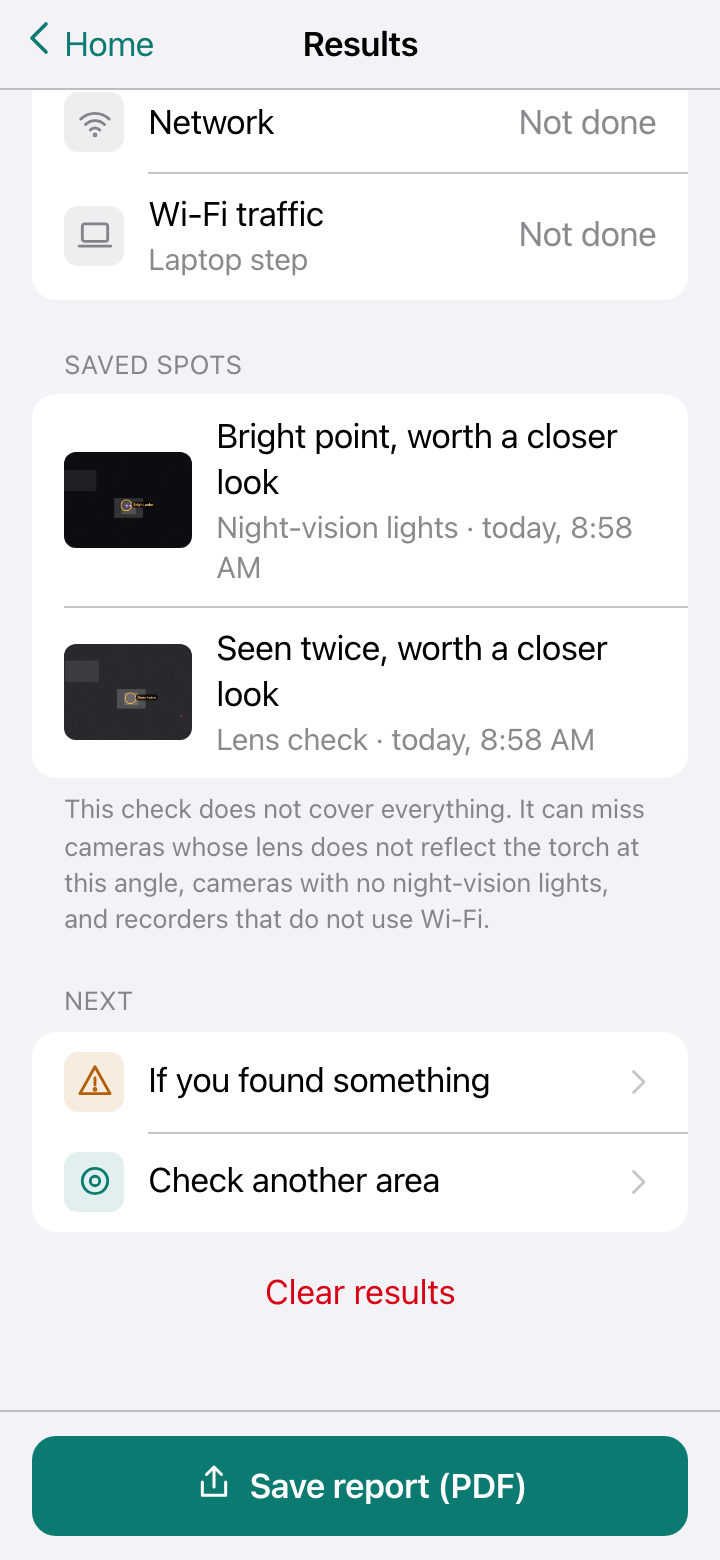
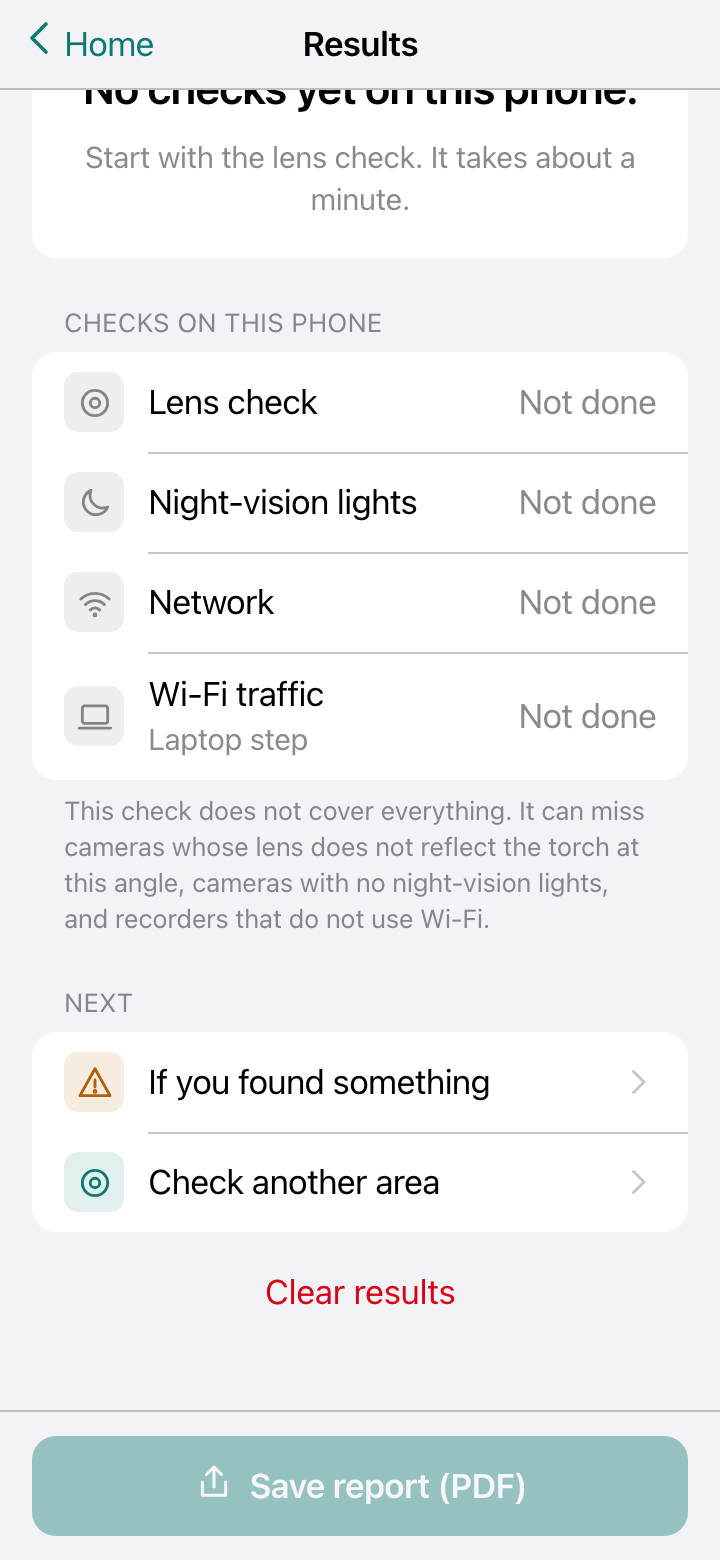
Coverage ring: which directions were scanned, on the camera screens, results and report

diff --git a/src/cam-page.js b/src/cam-page.js
@@ -2,7 +2,8 @@
 
 import { $ } from './ui.js';
 import { describeSupport } from './camera.js';
-import { getSettings, saveSettings } from './store.js';
+import { getSettings, saveSettings, getChecks, markCheck } from './store.js';
+import { headingOf, addHeading, emptyCoverage, countSeen, coverageText } from './coverage.js';
 
 // Analysis size: the long side is 320 px. Small enough to run every frame on
 // a phone, big enough that a lens a few metres away is still 1-3 pixels.
@@ -138,4 +139,39 @@ export function showSupport(list, cam, locked) {
   const rows = describeSupport(cam.caps, cam.track.getSettings?.() || {});
   if (locked) rows.push(['Locked for the scan', locked.length ? locked.join(', ') : 'nothing']);
   list.innerHTML = rows.map(([k, v]) => `<li><div class="row"><span class="row-text">${k}</span><span class="row-value">${v}</span></div></li>`).join('');
+}
+
+/**
+ * Coverage ring: while `isActive()` is true (a scan is running), note which
+ * way the phone points (see coverage.js) and fill that slice of the ring.
+ * The ring stays hidden until the phone gives a compass reading, so phones
+ * without the sensor (and laptops) never show it. In demo mode a slowly
+ * turning heading is simulated so the ring can be seen on a laptop.
+ */
+export function startCoverage(el, isActive, { demo = false } = {}) {
+  let seen = getChecks().coverage?.seen || emptyCoverage();
+  const draw = () => {
+    const arcs = seen.map((on, i) => {
+      // 30 degree slice with a 4 degree gap; 0 = up (north).
+      const a0 = ((i * 30 + 2 - 90) * Math.PI) / 180, a1 = ((i * 30 + 28 - 90) * Math.PI) / 180;
+      const p = (a) => `${28 + 24 * Math.cos(a)} ${28 + 24 * Math.sin(a)}`;
+      return `<path d="M${p(a0)}A24 24 0 0 1 ${p(a1)}" style="stroke:${on ? 'var(--accent)' : 'rgba(255,255,255,.25)'}"/>`;
+    }).join('');
+    el.innerHTML = `<svg viewBox="0 0 56 56" fill="none" stroke-width="4" stroke-linecap="round" aria-hidden="true">${arcs}</svg><b>${countSeen(seen)}/12</b>`;
+    el.setAttribute('aria-label', coverageText(seen));
+  };
+  const note = (h) => {
+    if (el.hidden) { el.hidden = false; draw(); }
+    if (!isActive() || h == null) return;
+    const before = countSeen(seen);
+    addHeading(seen, h);
+    if (countSeen(seen) !== before) { markCheck('coverage', { seen }); draw(); }
+  };
+  el.hidden = true;
+  if (demo) {
+    setInterval(() => note((performance.now() / 50) % 360), 200);
+    return;
+  }
+  const type = 'ondeviceorientationabsolute' in window ? 'deviceorientationabsolute' : 'deviceorientation';
+  window.addEventListener(type, (e) => { const h = headingOf(e); if (h != null) note(h); });
 }

diff --git a/src/coverage.js b/src/coverage.js
@@ -1,0 +1,46 @@
+// Coverage ring maths (no DOM, testable in node).
+//
+// While a lens or night-vision scan runs, we note which way the phone points,
+// using its compass. The full circle is split into 12 slices of 30 degrees.
+// A slice counts once the phone pointed into it during a scan. This shows
+// where the user pointed, not that a direction is clear.
+
+export const SLICES = 12;
+
+/**
+ * Compass heading (0 = north, clockwise, degrees) from a deviceorientation
+ * event, or null if the phone does not give a real compass reading.
+ * - iPhone Safari gives `webkitCompassHeading` directly.
+ * - Android Chrome gives `alpha` with `absolute: true` (from the
+ *   deviceorientationabsolute event). alpha turns counter-clockwise, so the
+ *   heading is 360 - alpha.
+ * A relative alpha (absolute false) still tells us how far the phone turned
+ * since the page opened, which is all the ring needs, so it is used too.
+ */
+export function headingOf(e) {
+  if (e == null) return null;
+  if (typeof e.webkitCompassHeading === 'number') return norm(e.webkitCompassHeading);
+  if (typeof e.alpha === 'number') return norm(360 - e.alpha);
+  return null;
+}
+
+const norm = (d) => ((d % 360) + 360) % 360;
+
+/** Which slice a heading falls in (0..11). */
+export const sliceOf = (deg) => Math.floor(norm(deg) / (360 / SLICES)) % SLICES;
+
+/** Mark the slice for a heading. `seen` is an array of 12 booleans. Returns it. */
+export function addHeading(seen, deg) {
+  if (deg == null || Number.isNaN(deg)) return seen;
+  seen[sliceOf(deg)] = true;
+  return seen;
+}
+
+export const emptyCoverage = () => Array(SLICES).fill(false);
+export const countSeen = (seen = []) => seen.filter(Boolean).length;
+
+/** Combine two coverage arrays (lens and night-vision scans share one ring). */
+export const mergeCoverage = (a = [], b = []) => emptyCoverage().map((_, i) => !!(a[i] || b[i]));
+
+/** Plain sentence for results and the report. */
+export const coverageText = (seen) => `You checked ${countSeen(seen)} of ${SLICES} directions.`;

diff --git a/src/report-content.js b/src/report-content.js
@@ -6,6 +6,8 @@
 // bytes (adding the hash would change the bytes), so we hash the contents
 // instead. Change a word or a photo and the fingerprint no longer matches.
 
+import { coverageText, countSeen } from './coverage.js';
+
 export const LIMITS =
   'This check does not cover everything. It can miss cameras whose lens does not reflect the torch at this angle, ' +
   'cameras with no night-vision lights, and recorders that do not use Wi-Fi.';
@@ -58,6 +60,10 @@ export function checkRows(checks = {}, wifi = null, snaps = [], whenFn = (t) => 
   rows.push(wifi
     ? { key: 'wifi', name: 'Wi-Fi traffic', done: true, status: wf ? closer(1, 'device') : 'Nothing found', detail: whenFn(wifi.at), tone: wf ? 'warn' : 'ok' }
     : { key: 'wifi', name: 'Wi-Fi traffic', done: false, status: 'Not done', detail: 'Laptop step', tone: 'grey' });
+  const seen = checks.coverage?.seen;
+  if (seen && countSeen(seen)) {
+    rows.push({ key: 'coverage', name: 'Directions covered', done: true, status: `${countSeen(seen)} of 12`, detail: 'Where you pointed the phone', tone: 'info' });
+  }
   return rows;
 }
 
@@ -73,7 +79,9 @@ export function checkLines(checks = {}, wifi = null) {
   const net = nw
     ? `Yes, ${nw.nearby} nearby networks and ${nw.devices} devices (${when(nw.at)})${nw.flagged?.length ? `, ${nw.flagged.length} worth a closer look` : ''}`
     : 'No';
-  return [['Lens check', lens], ['IR check', ir], ['Network check', net], ['Wi-Fi check', wf]];
+  const lines = [['Lens check', lens], ['Night-vision lights', ir], ['Network check', net], ['Wi-Fi check', wf]];
+  if (countSeen(checks.coverage?.seen)) lines.push(['Directions covered', `${coverageText(checks.coverage.seen)} This shows where the phone pointed, not that a direction is clear.`]);
+  return lines;
 }
 
 /**

diff --git a/tests/coverage.test.js b/tests/coverage.test.js
@@ -1,0 +1,34 @@
+import { describe, it, expect } from 'vitest';
+import { headingOf, sliceOf, addHeading, emptyCoverage, countSeen, mergeCoverage, coverageText } from '../src/coverage.js';
+
+describe('coverage ring', () => {
+  it('reads the compass heading from both kinds of phone event', () => {
+    expect(headingOf({ webkitCompassHeading: 90 })).toBe(90);
+    expect(headingOf({ alpha: 90, absolute: true })).toBe(270); // alpha turns the other way
+    expect(headingOf({ alpha: 0 })).toBe(0);
+    expect(headingOf({ alpha: null })).toBe(null);
+    expect(headingOf(null)).toBe(null);
+  });
+
+  it('puts headings into 12 slices of 30 degrees, wrapping at north', () => {
+    expect(sliceOf(0)).toBe(0);
+    expect(sliceOf(29.9)).toBe(0);
+    expect(sliceOf(30)).toBe(1);
+    expect(sliceOf(359)).toBe(11);
+    expect(sliceOf(360)).toBe(0);
+    expect(sliceOf(-10)).toBe(11);
+  });
+
+  it('counts each direction once, however long the phone points there', () => {
+    const seen = emptyCoverage();
+    for (const d of [5, 10, 15, 95, 100, 200, null, NaN]) addHeading(seen, d);
+    expect(countSeen(seen)).toBe(3);
+    expect(coverageText(seen)).toBe('You checked 3 of 12 directions.');
+  });
+
+  it('combines the lens and night-vision rings', () => {
+    const a = addHeading(emptyCoverage(), 10), b = addHeading(emptyCoverage(), 200);
+    expect(countSeen(mergeCoverage(a, b))).toBe(2);
+    expect(countSeen(mergeCoverage(undefined, b))).toBe(1);
+  });
+});

diff --git a/src/lens.js b/src/lens.js
@@ -209,15 +209,19 @@ export function mergeRejects(rejects, dist = 12) {
  * surface also passes the local-contrast test, but part of its ring sits on
  * the same shiny surface and blinks just as hard. Those are dropped.
  */
-export function isIsolated(raw, w, h, cx, cy, peak, radius = 5) {
+export function isIsolated(raw, w, h, cx, cy, peak, radii = [4, 6]) {
+  // Two rings of 24 samples each: a thin streak (1-2 px, the edge of a
+  // spoon) slips between 12 samples on one ring, but not between 24 on two.
   let ringMax = -Infinity, ringMin = Infinity;
-  for (let k = 0; k < 12; k++) {
-    const a = (k / 12) * Math.PI * 2;
-    const x = Math.round(cx + radius * Math.cos(a)), y = Math.round(cy + radius * Math.sin(a));
-    if (x < 0 || y < 0 || x >= w || y >= h) continue;
-    const v = raw[y * w + x];
-    if (v > ringMax) ringMax = v;
-    if (v < ringMin) ringMin = v;
+  for (const radius of radii) {
+    for (let k = 0; k < 24; k++) {
+      const a = (k / 24) * Math.PI * 2;
+      const x = Math.round(cx + radius * Math.cos(a)), y = Math.round(cy + radius * Math.sin(a));
+      if (x < 0 || y < 0 || x >= w || y >= h) continue;
+      const v = raw[y * w + x];
+      if (v > ringMax) ringMax = v;
+      if (v < ringMin) ringMin = v;
+    }
   }
   if (ringMax === -Infinity) return true;
   return peak - ringMax >= 0.5 * (peak - ringMin);

diff --git a/src/ir-page.js b/src/ir-page.js
@@ -6,7 +6,7 @@ import { findBrightSpots, updateIrTracks, visibleFlagged, IR_DEFAULTS } from './
 import { addSnapshot, getSnapshots, markCheck, savePhone } from './store.js';
 import { openCamera, closeCamera, setTorch, phoneInfo } from './camera.js';
 import { $, isDemo, initPage, wireSheetButtons } from './ui.js';
-import { makeGrabber, attachStream, screenMapper, drawSpots, sizeOverlay, snapshot, buildSliders, showSupport } from './cam-page.js';
+import { makeGrabber, attachStream, screenMapper, drawSpots, sizeOverlay, snapshot, buildSliders, showSupport, startCoverage } from './cam-page.js';
 
 initPage('Night-vision lights');
 const video = $('video'), overlay = $('overlay');
@@ -129,4 +129,5 @@ wireSheetButtons();
 $('clearBtn').addEventListener('click', () => { tracks = []; shown = []; redraw(); });
 window.addEventListener('resize', redraw);
 showSaved();
+startCoverage($('cover'), () => running, { demo: isDemo });
 if (isDemo) setStatus('Demo camera: a simulated dark room with night-vision lights. Tap Start camera.');

diff --git a/src/results-page.js b/src/results-page.js
@@ -22,12 +22,13 @@ function render() {
     : `Last check ${when(f.last)}.`;
   $('limits').textContent = LIMITS;
 
-  const ico = { lens: 'lens', ir: 'night', network: 'wifi', wifi: 'laptop' };
+  const ico = { lens: 'lens', ir: 'night', network: 'wifi', wifi: 'laptop', coverage: 'target' };
   $('checks').innerHTML = checkRows(checks, wifi, snaps, when).map((r) => `
     <li><div class="row"><span class="ico ${r.done ? '' : 'grey'}">${icon(ico[r.key])}</span>
       <span class="row-text"><span>${r.name}</span>${r.detail ? `<span class="row-sub">${esc(r.detail)}</span>` : ''}</span>
       <span class="row-value ${r.tone === 'warn' ? 'warn-text' : ''}">${r.tone === 'warn' ? 'Look closer' : r.status}</span></div></li>`).join('');
   stagger($('checks'));
+  $('coverNote').hidden = !checks.coverage;
 
   const netFlags = checks.network?.flagged || [];
   $('netSec').hidden = !netFlags.length;

diff --git a/src/lens-page.js b/src/lens-page.js
@@ -16,7 +16,7 @@ import { addSnapshot, getSnapshots, markCheck, savePhone, getChecks } from './st
 import { openCamera, setTorch, lockForTorch, phoneInfo } from './camera.js';
 import { $, isDemo, initPage, wireSheetButtons } from './ui.js';
 import {
-  makeGrabber, attachStream, screenMapper, drawSpots, sizeOverlay, snapshot, buildSliders, showSupport, applySettings,
+  makeGrabber, attachStream, screenMapper, drawSpots, sizeOverlay, snapshot, buildSliders, showSupport, startCoverage, applySettings,
 } from './cam-page.js';
 
 initPage('Lens check');
@@ -310,4 +310,5 @@ $('recalBtn').addEventListener('click', () => {
 });
 window.addEventListener('resize', redraw);
 showSaved();
+startCoverage($('cover'), () => busy, { demo: isDemo });
 if (isDemo) setStatus('Demo camera: a simulated room. Tap Start camera, then Scan twice.');

diff --git a/tests/lens.test.js b/tests/lens.test.js
@@ -233,3 +233,17 @@ describe('ignored spots', () => {
     expect(merged[0]).toMatchObject({ x: 28, area: 7, reason: 'shape' });
   });
 });
+
+import { isIsolated } from '../src/lens.js';
+
+describe('isolation test', () => {
+  it('passes a lone dot and fails a dot that sits on a thin slanted streak', () => {
+    const w = 60, h = 40;
+    const lone = new Float32Array(w * h); lone[20 * w + 30] = 50;
+    expect(isIsolated(lone, w, h, 30, 20, 50)).toBe(true);
+    const streak = new Float32Array(w * h);
+    for (let i = -15; i <= 15; i++) streak[Math.round(20 + i * 0.75) * w + 30 + i] = 45; // 1 px line, about 37 degrees
+    streak[20 * w + 30] = 50;
+    expect(isIsolated(streak, w, h, 30, 20, 50)).toBe(false);
+  });
+});

diff --git a/tools/e2e.js b/tools/e2e.js
@@ -113,6 +113,7 @@ await step('results show the saved spot, and the PDF is real and carries the fin
   assert.match(await text('#summary'), /1 thing worth a closer look/);
   assert.equal(await page.locator('.spot img').count(), 1);
   assert.match(await text('#checks'), /Lens check/);
+  assert.match(await text('#checks'), /Directions covered[^]*\d+ of 12/); // demo turns the heading slowly
   assert.match(await text('#checks'), /Night-vision lights[^]*back camera/);
   await shot('results');
   const [dl] = await Promise.all([page.waitForEvent('download'), page.click('#reportBtn')]);

diff --git a/results.html b/results.html
@@ -39,6 +39,7 @@
 
     <div class="label">Checks on this phone</div>
     <ul id="checks" class="group"></ul>
+    <p class="footer" id="coverNote" hidden>Directions covered shows where you pointed the phone during scans, not proof that a direction is clear.</p>
 
     <section id="spotsSec" hidden>
       <div class="label">Saved spots</div>

diff --git a/ir.html b/ir.html
@@ -15,6 +15,7 @@
     <canvas id="overlay"></canvas>
   </div>
   <div class="aim" aria-hidden="true"></div>
+  <div class="cover" id="cover" role="img" hidden></div>
 
   <header class="cam-top">
     <a class="icon-btn" href="./" aria-label="Home"><span data-icon="back"></span></a>
